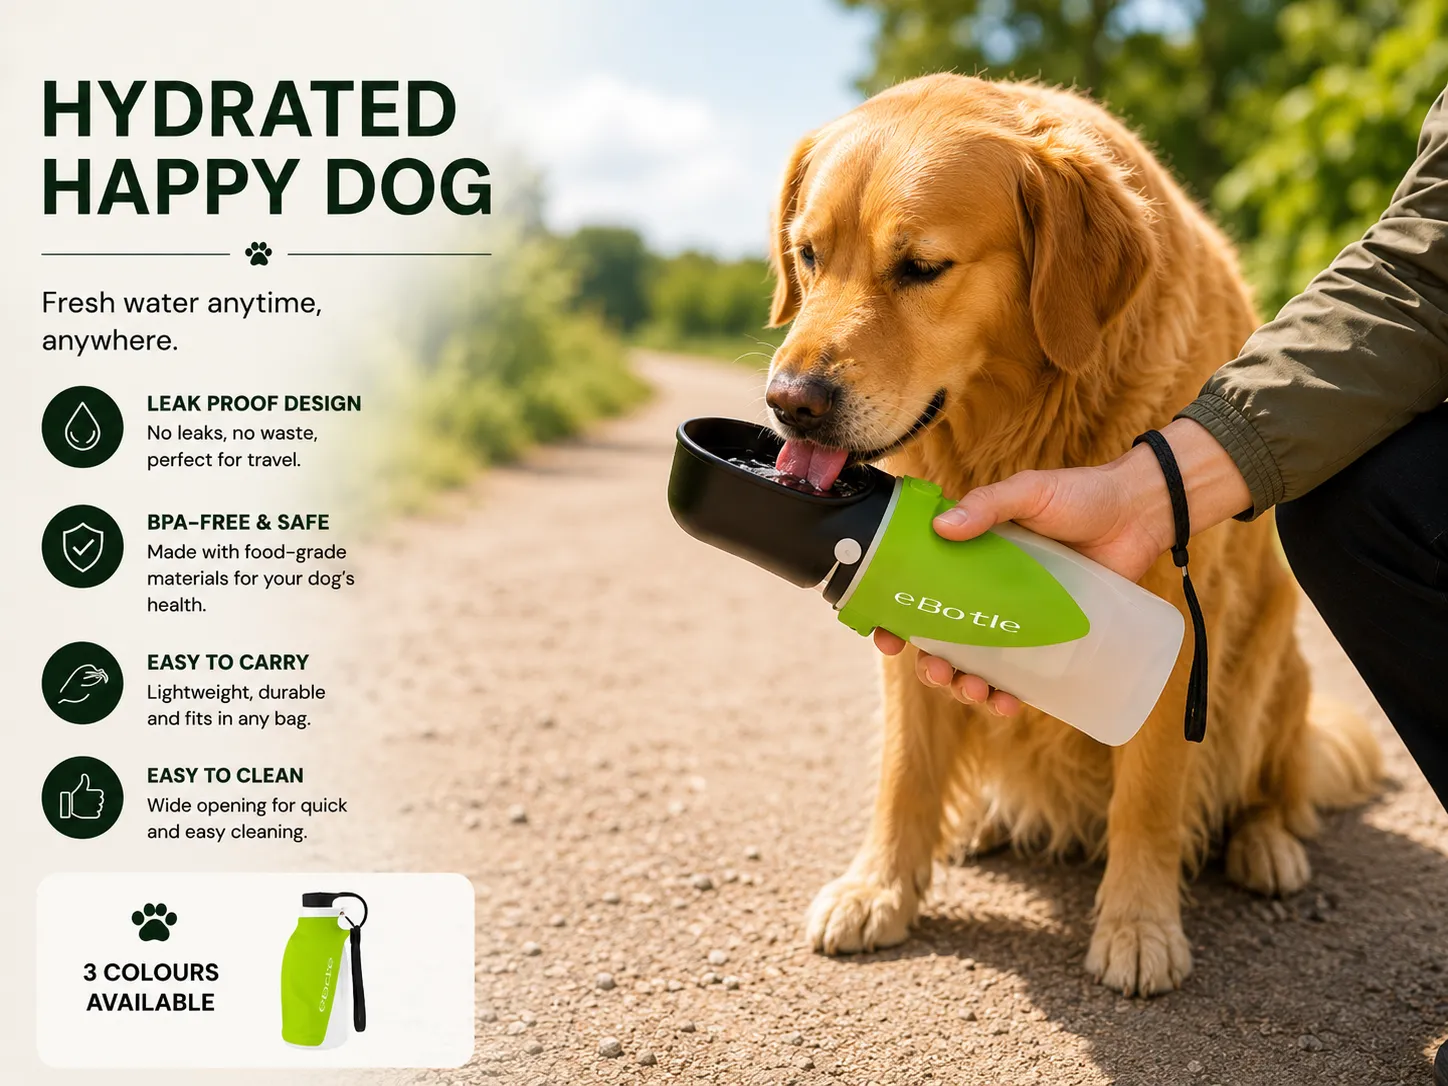
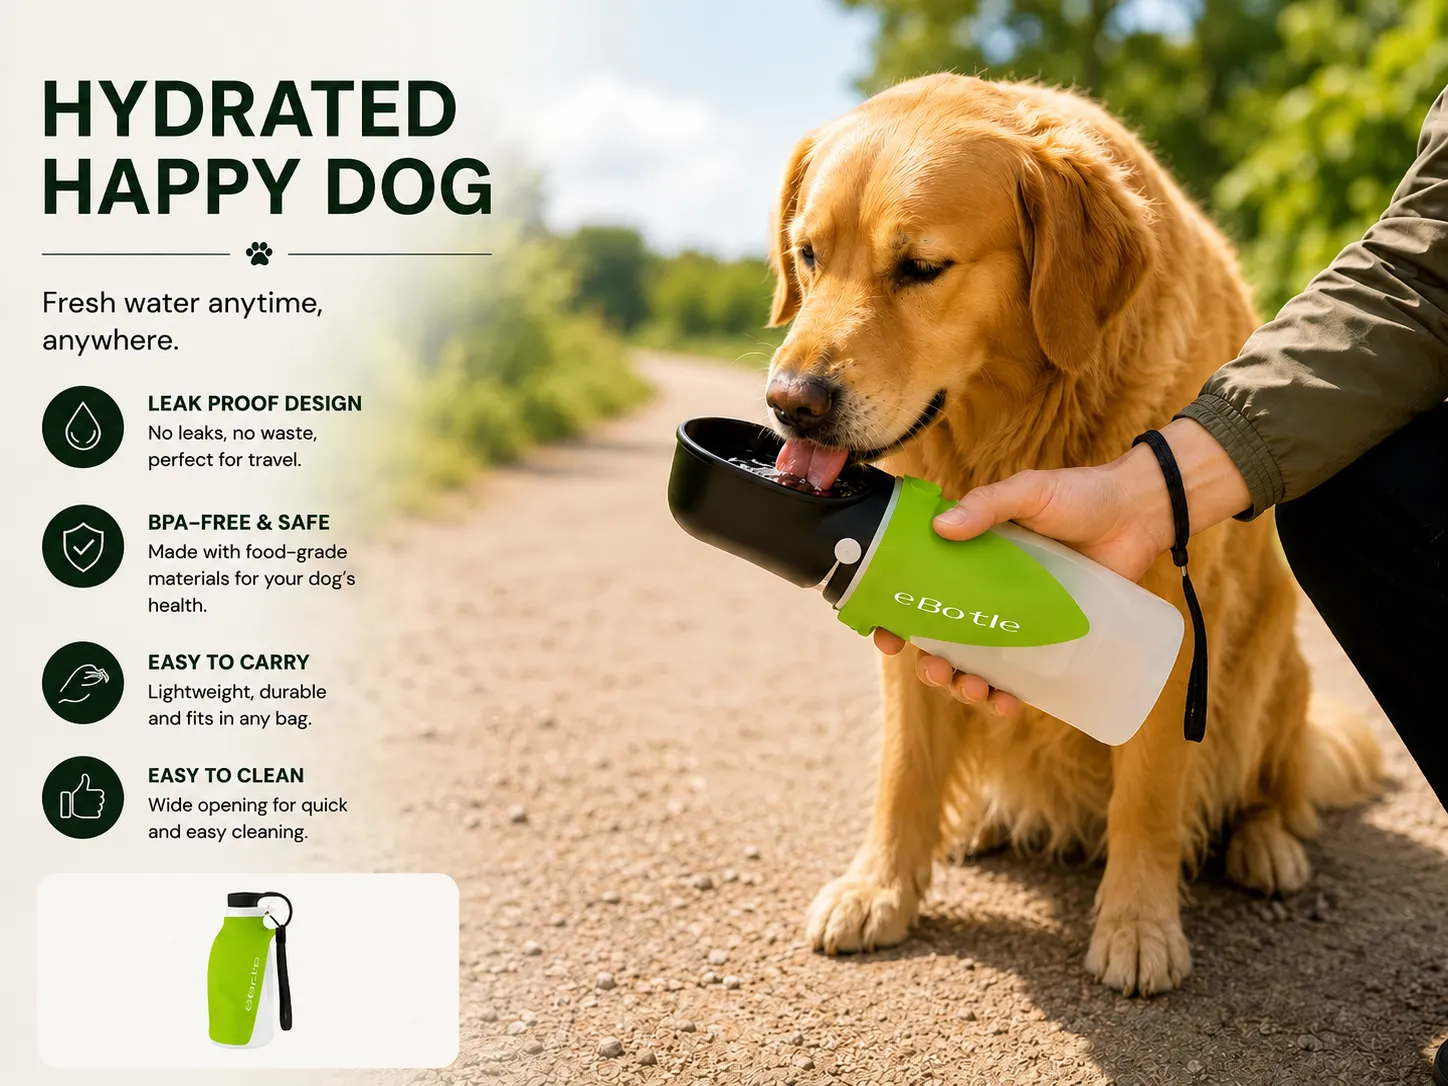
Add Ponpon Summer Pick homepage section

diff --git a/src/App.css b/src/App.css
@@ -2574,3 +2574,136 @@ body.modal-open {
   color: var(--ink);
   letter-spacing: -0.01em;
 }
+
+/* ─────────────────────────────────────────────
+   PONPON SUMMER PICK
+───────────────────────────────────────────── */
+
+.ponpon-pick {
+  padding: 0 24px 24px;
+  margin-top: -48px;
+  background: #fbf8f4;
+  position: relative;
+  z-index: 3;
+}
+
+.ponpon-pick-card {
+  max-width: 980px;
+  min-height: 220px;
+  margin: 0 auto;
+  padding: 28px 42px;
+  border-radius: 32px;
+  background: #fff;
+  border: 1px solid #eadfd5;
+  display: flex;
+  align-items: center;
+  justify-content: center;
+  gap: 44px;
+  box-shadow: 0 18px 50px rgba(40, 25, 15, 0.08);
+}
+
+.ponpon-pick-visual {
+  width: 185px;
+  height: 185px;
+  overflow: visible;
+  position: relative;
+  display: flex;
+  align-items: center;
+  justify-content: center;
+  background: #f8efe8;
+  border-radius: 999px;
+  font-weight: 700;
+  color: #9a6a43;
+  filter: drop-shadow(0 18px 30px rgba(0, 0, 0, 0.12));
+}
+
+.ponpon-pick-photo {
+  width: 100%;
+  height: 100%;
+  object-fit: cover;
+  object-position: center;
+  border-radius: 50%;
+  transform: scale(1);
+}
+
+.ponpon-pick-product {
+  position: absolute;
+  width: 118px;
+  right: -34px;
+  bottom: 8px;
+  z-index: 3;
+  transform: rotate(-18deg);
+  filter: drop-shadow(0 12px 18px rgba(40, 25, 15, 0.18));
+}
+
+.ponpon-pick-right {
+  max-width: 520px;
+  text-align: left;
+}
+
+.ponpon-pick-badge {
+  display: inline-block;
+  margin-bottom: 8px;
+  font-size: 13px;
+  font-weight: 800;
+  letter-spacing: 0.16em;
+  text-transform: uppercase;
+  color: #c58b56;
+}
+
+.ponpon-pick-paw {
+  filter: sepia(1) saturate(2) hue-rotate(345deg);
+  margin-right: 8px;
+}
+
+.ponpon-pick-right h3 {
+  margin: 0 0 8px;
+  font-size: 30px;
+  line-height: 1.1;
+  color: #111;
+}
+
+.ponpon-pick-right p {
+  margin: 0 0 16px;
+  font-size: 17px;
+  line-height: 1.5;
+  color: #5f5a56;
+}
+
+.ponpon-btn {
+  display: inline-flex;
+  align-items: center;
+  justify-content: center;
+  padding: 14px 26px;
+  border-radius: 999px;
+  background: #15110f;
+  color: white;
+  font-weight: 800;
+  text-decoration: none;
+  letter-spacing: 0.04em;
+}
+
+@media (max-width: 768px) {
+
+  .ponpon-pick-card {
+    flex-direction: column;
+    text-align: center;
+    gap: 22px;
+    padding: 28px 24px;
+    margin-top: 20px;
+  }
+
+  .ponpon-pick-right {
+    max-width: 100%;
+    text-align: center;
+  }
+
+  .ponpon-pick-right h3 {
+    font-size: 40px;
+  }
+
+  .ponpon-btn {
+    margin: 0 auto;
+  }
+
+}

diff --git a/src/components/PonponPick.jsx b/src/components/PonponPick.jsx
@@ -1,0 +1,50 @@
+export default function PonponPick() {
+  return (
+    <section className="ponpon-pick">
+      <div className="ponpon-pick-card">
+
+       <div className="ponpon-pick-visual">
+
+        <img
+            src="/ponpon-card.webp"
+            alt="Ponpon"
+            className="ponpon-pick-photo"
+        />
+
+        <img
+            src="/gourde_ponpon.png"
+            alt="Portable Dog Water Bottle"
+            className="ponpon-pick-product"
+        />
+
+        </div>
+
+        <div className="ponpon-pick-right">
+
+          <span className="ponpon-pick-badge">
+            <span className="ponpon-pick-paw">🐾</span>
+              Ponpon's Summer Pick
+          </span>
+
+          <h3>
+            Ponpon's favourite summer essential
+          </h3>
+
+          <p>
+            Ponpon never goes on a summer walk without his
+            favourite portable water bottle.
+          </p>
+
+          <a
+            href="/product/portable-dog-water-bottle"
+            className="ponpon-btn"
+          >
+            View Product →
+          </a>
+
+        </div>
+
+      </div>
+    </section>
+  );
+}

diff --git a/src/App.jsx b/src/App.jsx
@@ -4,6 +4,7 @@ import { PRODUCTS } from "./data/products";
 import ProductPage from "./pages/ProductPage";
 import HomeSwitcher from "./home/HomeSwitcher";
 import HomeClassic from "./home/HomeClassic";
+import PonponPick from "./components/PonponPick";
 
 // ─────────────────────────────────────────────────────────────
 // PRODUCTS
@@ -530,6 +531,9 @@ useEffect(() => {
         </div>
       </section>
       </HomeClassic>
+
+      <PonponPick />
+
      <section className="summer-promo">
         <div className="summer-promo-content">
           <div className="summer-promo-header">